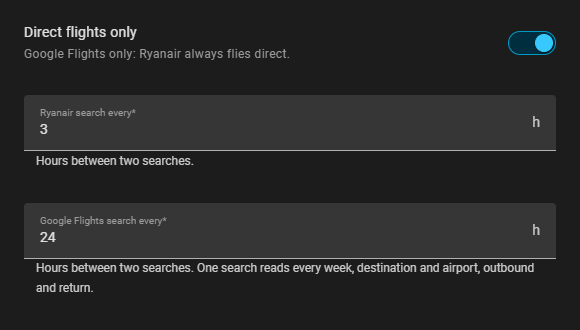
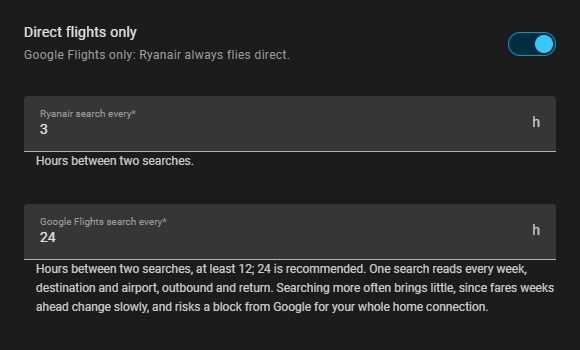
Google Flights limited to 300 requests a day and an interval of at least 12 hours
Google publishes no limit, and an address that searches too much gets a
captcha for the whole home. The limits are ours, on the safe side of what
has run for weeks without a block (224 requests a day): the form refuses a
setup over 300 Google requests a day (a round x 24 / the interval) and says
how many it would make, and the interval field starts at 12 hours. The
forms, the README and the guide say why, with the numbers.

diff --git a/tests/test_config_flow.py b/tests/test_config_flow.py
@@ -10,7 +10,7 @@ import pytest
 from custom_components.flight_prices.const import DOMAIN
 from homeassistant.config_entries import SOURCE_USER
 from homeassistant.core import HomeAssistant
-from homeassistant.data_entry_flow import FlowResultType
+from homeassistant.data_entry_flow import FlowResultType, InvalidData
 
 from .conftest import OPTIONS, make_entry
 
@@ -59,6 +59,15 @@ async def test_create_anywhere(hass: HomeAssistant) -> None:
         ({"google_destinations": ["PARIS"]}, {"google_destinations": "invalid_code"}),
         ({"outbound_from": 20, "outbound_to": 19}, {"outbound_to": "invalid_hours"}),
         ({"return_from": 14, "return_to": 14}, {"return_to": "invalid_hours"}),
+        # 12 weeks x 7 destinations x 2 airports x 2 = 336 Google requests a day, over 300.
+        (
+            {
+                "sources": ["google"],
+                "weeks": 12,
+                "google_destinations": ["LIS", "PAR", "LON", "AMS", "BCN", "OPO", "BUD"],
+            },
+            {"google_destinations": "google_too_many"},
+        ),
     ],
 )
 async def test_errors(hass: HomeAssistant, changes: dict[str, Any], errors: dict[str, str]) -> None:
@@ -66,6 +75,24 @@ async def test_errors(hass: HomeAssistant, changes: dict[str, Any], errors: dict
     result = await hass.config_entries.flow.async_configure(result["flow_id"], {**FORM, **changes})
     assert result["type"] is FlowResultType.FORM
     assert result["errors"] == errors
+
+
+async def test_google_requests_in_the_error(hass: HomeAssistant) -> None:
+    result = await hass.config_entries.flow.async_init(DOMAIN, context={"source": SOURCE_USER})
+    # The guide is linked before anything is filled in.
+    assert result["description_placeholders"]["guide_url"].endswith("docs/configuration.md")
+    destinations = ["LIS", "PAR", "LON", "AMS", "BCN", "OPO", "BUD"]
+    result = await hass.config_entries.flow.async_configure(
+        result["flow_id"], {**FORM, "sources": ["google"], "weeks": 12, "google_destinations": destinations}
+    )
+    assert result["description_placeholders"]["count"] == "336"
+    assert result["description_placeholders"]["limit"] == "300"
+    # One airport for Google halves it: 168 a day.
+    result = await hass.config_entries.flow.async_configure(
+        result["flow_id"],
+        {**FORM, "sources": ["google"], "weeks": 12, "google_destinations": destinations, "google_origins": ["MXP"]},
+    )
+    assert result["type"] is FlowResultType.CREATE_ENTRY
 
 
 async def test_google_with_destinations(hass: HomeAssistant) -> None:
@@ -103,3 +130,29 @@ async def test_options(hass: HomeAssistant) -> None:
     assert result["type"] is FlowResultType.CREATE_ENTRY
     assert entry.options["destinations"] == ["PMO"]
     assert entry.options["ryanair_interval"] == 6
+
+
+async def test_options_google_limits(hass: HomeAssistant) -> None:
+    entry = make_entry()
+    entry.add_to_hass(hass)
+    form = {key: value for key, value in FORM.items() if key != "name"}
+    google = {"sources": ["ryanair", "google"], "ryanair_interval": 3}
+    result = await hass.config_entries.options.async_init(entry.entry_id)
+    # Every 6 hours is too often, whatever the requests: the field does not accept it.
+    with pytest.raises(InvalidData):
+        await hass.config_entries.options.async_configure(
+            result["flow_id"], {**form, **google, "google_destinations": ["LIS"], "google_interval": 6}
+        )
+    # 8 weeks x 5 destinations x 2 airports x 2 = 160 a round: twice a day is 320, over 300.
+    destinations = ["LIS", "PAR", "LON", "AMS", "BCN"]
+    result = await hass.config_entries.options.async_configure(
+        result["flow_id"], {**form, **google, "google_destinations": destinations, "google_interval": 12}
+    )
+    assert result["type"] is FlowResultType.FORM
+    assert result["errors"] == {"google_destinations": "google_too_many"}
+    assert result["description_placeholders"]["count"] == "320"
+    # Once a day the same search is 160 requests: accepted.
+    result = await hass.config_entries.options.async_configure(
+        result["flow_id"], {**form, **google, "google_destinations": destinations, "google_interval": 24}
+    )
+    assert result["type"] is FlowResultType.CREATE_ENTRY

diff --git a/custom_components/flight_prices/config_flow.py b/custom_components/flight_prices/config_flow.py
@@ -51,6 +51,8 @@ from .const import (
     DEFAULT_RYANAIR_HOURS,
     DEFAULT_WEEKS,
     DOMAIN,
+    GOOGLE_MAX_REQUESTS_PER_DAY,
+    GOOGLE_MIN_HOURS,
     GUIDE_URL,
     MAX_WEEKS,
     SOURCE_GOOGLE,
@@ -103,7 +105,7 @@ USER_SCHEMA = vol.Schema({vol.Required(CONF_NAME): TextSelector()}).extend(SEARC
 OPTIONS_SCHEMA = SEARCH_SCHEMA.extend(
     {
         vol.Required(CONF_RYANAIR_INTERVAL, default=DEFAULT_RYANAIR_HOURS): _number(1, 24, "h"),
-        vol.Required(CONF_GOOGLE_INTERVAL, default=DEFAULT_GOOGLE_HOURS): _number(6, 168, "h"),
+        vol.Required(CONF_GOOGLE_INTERVAL, default=DEFAULT_GOOGLE_HOURS): _number(GOOGLE_MIN_HOURS, 168, "h"),
     }
 )
 
@@ -113,6 +115,25 @@ def _codes(values: Any) -> list[str]:
     if isinstance(values, str):
         values = re.split(r"[\s,;]+", values)
     return list(dict.fromkeys(code.strip().upper() for code in values or () if code.strip()))
+
+
+def google_requests_per_day(options: Mapping[str, Any]) -> int:
+    """The most requests Google Flights makes in a day: weeks x destinations x airports x 2, per round."""
+    if SOURCE_GOOGLE not in options.get(CONF_SOURCES, ()):
+        return 0
+    destinations = options.get(CONF_GOOGLE_DESTINATIONS) or options.get(CONF_DESTINATIONS) or ()
+    origins = options.get(CONF_GOOGLE_ORIGINS) or options.get(CONF_ORIGINS) or ()
+    per_round = int(options.get(CONF_WEEKS, DEFAULT_WEEKS)) * len(destinations) * len(origins) * 2
+    hours = max(int(options.get(CONF_GOOGLE_INTERVAL, DEFAULT_GOOGLE_HOURS)), GOOGLE_MIN_HOURS)
+    return -(-per_round * 24 // hours)
+
+
+def placeholders(options: Mapping[str, Any]) -> dict[str, str]:
+    return {
+        "guide_url": GUIDE_URL,
+        "count": str(google_requests_per_day(options)),
+        "limit": str(GOOGLE_MAX_REQUESTS_PER_DAY),
+    }
 
 
 def validate(user_input: Mapping[str, Any]) -> tuple[dict[str, Any], dict[str, str]]:
@@ -164,6 +185,10 @@ def validate(user_input: Mapping[str, Any]) -> tuple[dict[str, Any], dict[str, s
     for key in (CONF_RYANAIR_INTERVAL, CONF_GOOGLE_INTERVAL):
         if key in user_input:
             options[key] = int(user_input[key])
+    # The interval cannot go under GOOGLE_MIN_HOURS: its field does not accept it.
+    if google_requests_per_day(options) > GOOGLE_MAX_REQUESTS_PER_DAY:
+        # Many requests from one address get it a captcha from Google, for the whole home.
+        errors.setdefault(CONF_GOOGLE_DESTINATIONS, "google_too_many")
     return options, errors
 
 
@@ -188,6 +213,7 @@ class FlightPricesConfigFlow(ConfigFlow, domain=DOMAIN):
 
     async def async_step_user(self, user_input: dict[str, Any] | None = None) -> ConfigFlowResult:
         errors: dict[str, str] = {}
+        options: dict[str, Any] = {}
         if user_input is not None:
             options, errors = validate(user_input)
             if not errors:
@@ -199,7 +225,7 @@ class FlightPricesConfigFlow(ConfigFlow, domain=DOMAIN):
             step_id="user",
             data_schema=self.add_suggested_values_to_schema(USER_SCHEMA, _suggested(user_input or {})),
             errors=errors,
-            description_placeholders={"guide_url": GUIDE_URL},
+            description_placeholders=placeholders(options),
         )
 
 
@@ -208,6 +234,7 @@ class FlightPricesOptionsFlow(OptionsFlowWithReload):
 
     async def async_step_init(self, user_input: dict[str, Any] | None = None) -> ConfigFlowResult:
         errors: dict[str, str] = {}
+        options: dict[str, Any] = {}
         if user_input is not None:
             options, errors = validate(user_input)
             if not errors:
@@ -218,5 +245,5 @@ class FlightPricesOptionsFlow(OptionsFlowWithReload):
                 OPTIONS_SCHEMA, _suggested(user_input or self.config_entry.options)
             ),
             errors=errors,
-            description_placeholders={"guide_url": GUIDE_URL},
+            description_placeholders=placeholders(options),
         )

diff --git a/custom_components/flight_prices/const.py b/custom_components/flight_prices/const.py
@@ -46,6 +46,11 @@ DEFAULT_RETURN_TO: Final = 24
 DEFAULT_DIRECT_ONLY: Final = True
 DEFAULT_RYANAIR_HOURS: Final = 3
 DEFAULT_GOOGLE_HOURS: Final = 24
+# Google Flights has no published limit: too many automatic searches get the home's IP address a
+# captcha. These limits are ours, kept well above what has run for weeks without a block (224
+# requests a day, 20 to 30 seconds apart) and well below anything aggressive.
+GOOGLE_MIN_HOURS: Final = 12
+GOOGLE_MAX_REQUESTS_PER_DAY: Final = 300
 
 # How often the coordinator checks whether a source is due.
 TICK: Final = timedelta(minutes=15)

diff --git a/README.md b/README.md
@@ -60,6 +60,9 @@ It reads the sensors of the search, so it follows the options: change the weeks,
 
 The Google search runs in the background. Its round stops at the first block (consent page, captcha, HTTP 429) or after 5 errors in a row, and is tried again at the next interval. A return is not searched when the outbound found nothing. Results are saved, so a restart of Home Assistant or a change of options shows them at once without searching again, unless the search itself changed.
 
+> [!CAUTION]
+> Too many automatic searches get your home's internet connection a captcha from Google, for every device at home. The integration refuses a Google setup over **300 requests a day** and an interval under **12 hours**; once a day (the default) is recommended. See the [configuration guide](https://github.com/flaviorighi/ha-flight-prices/blob/main/docs/configuration.md#how-many-requests) for the numbers.
+
 ## Installation
 
 With HACS: add this repository as a custom repository (category Integration), install **Flight Prices** and restart Home Assistant. By hand: copy `custom_components/flight_prices` into your `config/custom_components` and restart.
@@ -78,7 +81,7 @@ Then add the integration in **Settings → Devices & services**. The options can
 | Outbound day and departure hours | Any weekday; hours from 0 to 24, 24 being midnight | Friday, 19 to 24 |
 | Return day and departure hours | Any weekday; a return day before the outbound day means the week after (Saturday to Monday) | Sunday, 14 to 24 |
 | Direct flights only | Google Flights only: Ryanair always flies direct | yes |
-| Ryanair / Google Flights search every | Hours between two searches | 3 / 24 |
+| Ryanair / Google Flights search every | Hours between two searches: Ryanair 1 to 24, Google Flights 12 to 168 | 3 / 24 |
 
 ## Development
 
